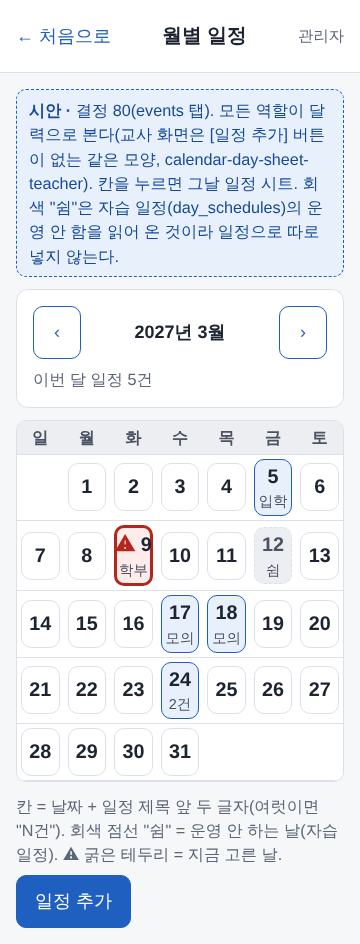
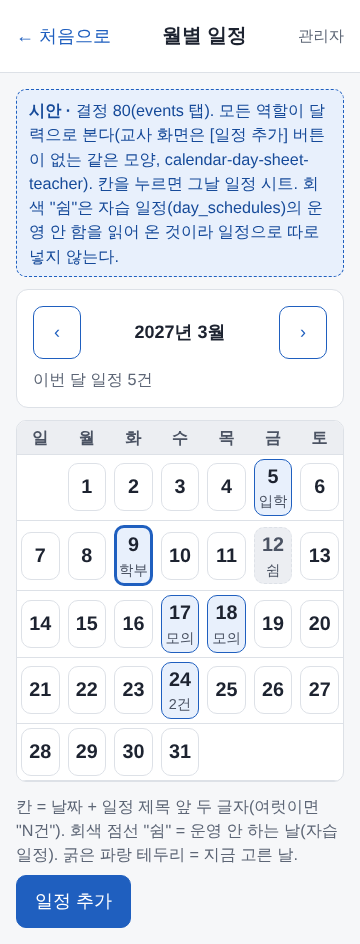
D12 5단계 후속: 달력 고른 날을 아이콘 없이 파랑 굵은 테두리로(⚠ 제거), 결과 시트 결정 81 반영 합침
Claude-Session: https://claude.ai/code/session_01By8Yaa8urwsSoHVw3FXUZa

Changed region(s): [[0.1833, 0.8909, 0.825, 0.9216], [0.3056, 0.553, 0.4278, 0.6451]]

diff --git a/tests/design/docs.test.js b/tests/design/docs.test.js
@@ -211,9 +211,10 @@ test('D12 5단계 시안(stage5-screens.js): 화면 이름이 stage5-screens.md 
   const imgs = [...doc.matchAll(/!\[[^\]]*\]\((stage5-photos\/[^)]+)\)/g)].map((m) => m[1]);
   assert.ok(imgs.length >= 19, '문서의 사진 수 ' + imgs.length);
   imgs.forEach((f) => assert.ok(fs.existsSync(path.join(__dirname, '..', '..', 'docs', 'design', f)), f + ' 파일이 없다'));
-  ['.rg-cell', '.rg-pre', '.rg-sym', 'table.data.rg', '.rg-cell.bad', '.rg-cell.off', '.rg-cell.has'].forEach((c) => assert.ok(css.readFile('src/ui/Styles.html').indexOf(c.replace(/^table\.data\./, 'table.data.')) >= 0, c + ' 가 Styles.html 에 없다'));
+  ['.rg-cell', '.rg-pre', '.rg-sym', 'table.data.rg', '.rg-cell.bad', '.rg-cell.off', '.rg-cell.has', '.rg-cell.sel'].forEach((c) => assert.ok(css.readFile('src/ui/Styles.html').indexOf(c.replace(/^table\.data\./, 'table.data.')) >= 0, c + ' 가 Styles.html 에 없다'));
   ['`counsel.view`', '`counsel.save`', '`counsel.cancel`', '결정 81', '미정·가정', '삭제 버튼은 어디에도 없다', '저장한 뒤에는 고치지 않는다', '자동 1OUT', '(내용 생략, N자)', '기본 켬', '결정 80', 'UI.rangeField'].forEach((t) => assert.ok(doc.indexOf(t) >= 0, t));
   // 미인정·운영 안 함은 색만으로 알리지 않는다(⚠ 글자·점선)
   const styles = css.readFile('src/ui/Styles.html');
+  assert.ok(/\.rg-cell\.sel \{ border: 3px solid var\(--accent\)/.test(styles) && !/\.rg-cell\.sel[^{]*::before/.test(styles), '고른 날은 아이콘 없이 색 + 굵기');
   assert.ok(/\.rg-cell\.bad \.rg-sym::before \{ content: "⚠ "/.test(styles) && /\.rg-cell\.bad \{ border: 3px solid/.test(styles) && /\.rg-cell\.off \{[^}]*border-style: dashed/.test(styles));
 });

diff --git a/src/ui/Styles.html b/src/ui/Styles.html
@@ -235,5 +235,6 @@
   .rg-cell.has { background: var(--accent-weak); border-color: var(--accent); }
   .rg-cell.bad { border: 3px solid var(--warn); background: var(--warn-weak); }
   .rg-cell.bad .rg-sym::before { content: "⚠ "; color: var(--warn); }
+  .rg-cell.sel { border: 3px solid var(--accent); }   /* 달력에서 지금 고른 날: 색 + 굵기(아이콘 없음, aria-current="date"). ⚠는 미인정·경고 뜻이라 쓰지 않는다 */
   .rg-cell.off { background: var(--muted-weak); border-style: dashed; color: var(--muted-ink); cursor: not-allowed; }
 </style>

diff --git a/docs/design/stage5-screens.md b/docs/design/stage5-screens.md
@@ -119,7 +119,7 @@
 ![달력](stage5-photos/calendar-month.png) ![PC 달력](stage5-photos/calendar-month-1280.png)
 
 - 머리: [‹ 이전 달] "2027년 3월" [다음 달 ›], "이번 달 일정 5건". 아래 일~토 7열 달력(`.tablewrap` + `table.data.rg`, `table-layout: fixed`로 7칸이 같은 폭).
-- **칸(`.rg-cell`)**: 위 줄 날짜 숫자, 아래 줄 — 일정이 하나면 **제목 앞 두 글자**(칸이 40px쯤이라 세 글자는 안 들어간다), 둘 이상이면 "2건". 일정이 있는 날은 `.has`(연한 파랑 + 파랑 테두리), **운영 안 하는 날은 `.off` 회색 점선 + "쉼"**(자습 일정에서 읽음), **지금 고른 날은 굵은 테두리 + ⚠**(`.bad`를 "고른 날"로 재사용). 모두 글자·모양으로도 알린다.
+- **칸(`.rg-cell`)**: 위 줄 날짜 숫자, 아래 줄 — 일정이 하나면 **제목 앞 두 글자**(칸이 40px쯤이라 세 글자는 안 들어간다), 둘 이상이면 "2건". 일정이 있는 날은 `.has`(연한 파랑 + 파랑 테두리), **운영 안 하는 날은 `.off` 회색 점선 + "쉼"**(자습 일정에서 읽음), **지금 고른 날은 굵은 파랑 테두리**(`.rg-cell.sel`, 색 + 굵기, 아이콘 없음, 코딩은 `aria-current="date"`를 단다 — ⚠는 미인정·경고 뜻이라 쓰지 않는다). 운영 안 하는 날·일정 있는 날도 글자("쉼"·제목)로 알린다.
 - 여러 날에 걸친 일정(시작일~끝날)은 그 기간의 **모든 날 칸**에 같은 제목이 나온다(모의고사 17~18일).
 - 맨 아래 범례 한 줄, **관리자만** 그 아래 [일정 추가] 버튼. 교사 역할 화면은 같은 모양에서 이 버튼만 없다.
 
@@ -165,7 +165,7 @@
 | F12 상담일지 | `UI.dateField` `UI.field` `UI.segmented` `UI.statusPill` `UI.actionBar` `UI.confirmWithReason` + `.chip` `.check` `.notice` |
 | F13 달력 | `UI.bottomSheet` `UI.rangeField` `UI.field` `UI.statusPill` `UI.confirmWithReason` + `table.data.rg` `.rg-cell` |
 
-**이번에 `src/ui/Styles.html`에 더한 것(디자인 소유):** `table.data.rg`(가운데 정렬 표), `.rg-cell`(누르는 칸, 최소 높이 48px) + 상태 `.has`·`.bad`·`.off`, 칸 안 줄 `.rg-pre`·`.rg-sym`. 새 색은 없고 기존 토큰만 쓴다. 의미를 색만으로 전하지 않는다(⚠·기호·점선·"운영 안 함" 글자).
+**이번에 `src/ui/Styles.html`에 더한 것(디자인 소유):** `table.data.rg`(가운데 정렬 표), `.rg-cell`(누르는 칸, 최소 높이 48px) + 상태 `.has`·`.bad`·`.off`·`.sel`(달력에서 고른 날), 칸 안 줄 `.rg-pre`·`.rg-sym`. 새 색은 없고 기존 토큰만 쓴다. 의미를 색만으로 전하지 않는다(⚠·기호·점선·"운영 안 함" 글자).
 
 ## 6. 미정·가정·확인 못 한 것 (코딩이 임의로 정하지 않는다)
 
